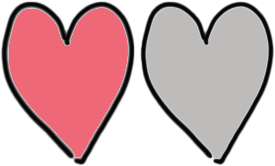
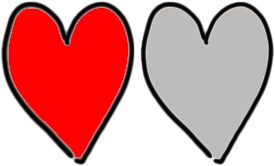
easier to see brighter red

Changed region(s): [[0.0291, 0.0301, 0.4945, 0.9639]]

diff --git a/GameplayPrototype/core/src/edu/cornell/gdiac/physics/platform/ChefModel.java b/GameplayPrototype/core/src/edu/cornell/gdiac/physics/platform/ChefModel.java
@@ -16,8 +16,6 @@ import com.badlogic.gdx.math.*;
 import com.badlogic.gdx.graphics.*;
 import com.badlogic.gdx.physics.box2d.*;
 
-import com.badlogic.gdx.scenes.scene2d.ui.ProgressBar;
-import com.badlogic.gdx.scenes.scene2d.utils.TextureRegionDrawable;
 import com.badlogic.gdx.utils.JsonValue;
 import edu.cornell.gdiac.assets.AssetDirectory;
 import edu.cornell.gdiac.physics.*;
@@ -83,9 +81,9 @@ public class ChefModel extends CapsuleObstacle {
 	/** The font used to draw text on the screen*/
 	private static final BitmapFont font = new BitmapFont();
 	/** X offset for health display */
-	private final float XOFFSET = 900;
+	private final float X_HEALTH = 900;
 	/** Y offset for health display */
-	private final float YOFFSET = 475;
+	private final float Y_HEALTH = 400;
 	/** size of each heart */
 	private final int HEART_SIZE = 30;
 	/** Time until invulnerability after getting hit wears off */
@@ -441,8 +439,8 @@ public class ChefModel extends CapsuleObstacle {
 		canvas.draw(animator,Color.WHITE,origin.x,origin.y,getX()*drawScale.x,getY()*drawScale.y+20,getAngle(),effect/10,0.1f);
 		//canvas.drawText("Health: " + health, font, XOFFSET, YOFFSET);
 		//draw health
-		float x = XOFFSET;
-		float y = YOFFSET;
+		float x = X_HEALTH;
+		float y = Y_HEALTH;
 		for (int i = 1; i <= max_health; i++){
 			if(i <= health){
 				canvas.draw(healthTexture, Color.WHITE, x, y, HEART_SIZE, HEART_SIZE);

diff --git a/GameplayPrototype/core/src/edu/cornell/gdiac/physics/platform/TemperatureBar.java b/GameplayPrototype/core/src/edu/cornell/gdiac/physics/platform/TemperatureBar.java
@@ -128,7 +128,7 @@ public class TemperatureBar {
     }
     public void draw(GameCanvas canvas){
         //draw temperature
-        canvas.draw(tempBar, Color.WHITE, 900, 300,  0.5f);
+        //canvas.draw(tempBar, Color.WHITE, 900, 300,  0.5f);
         //tempBar.draw(canvas, temperature);
         canvas.drawText("Temp: "+tempBar.getValue(), font, 500,565);
        // canvas.drawText("Temp: "+temperature, font, 575,565);
